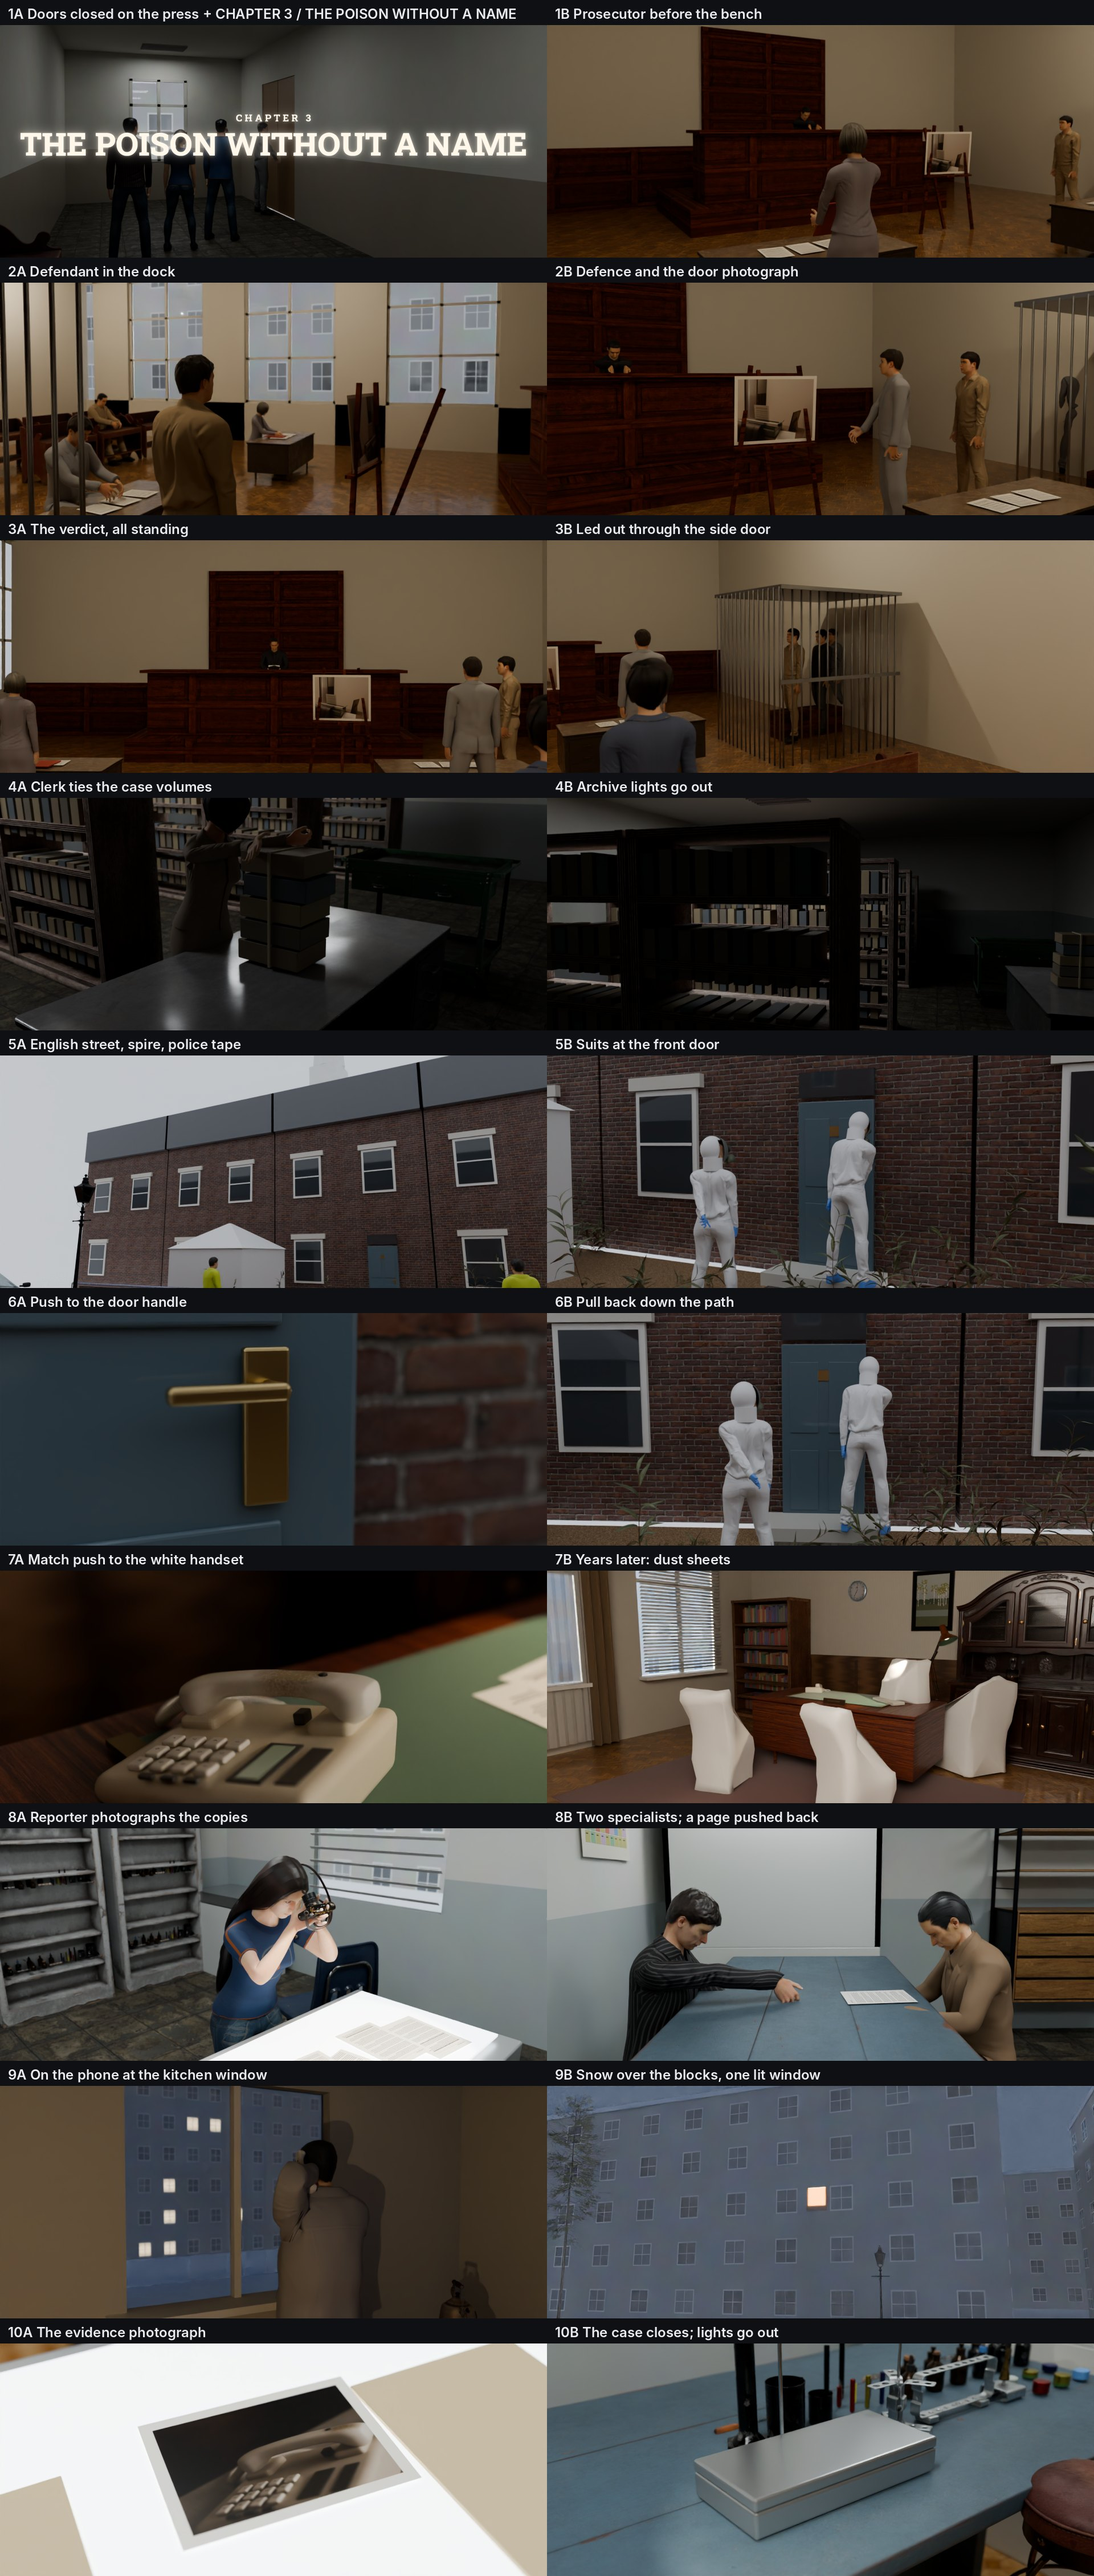
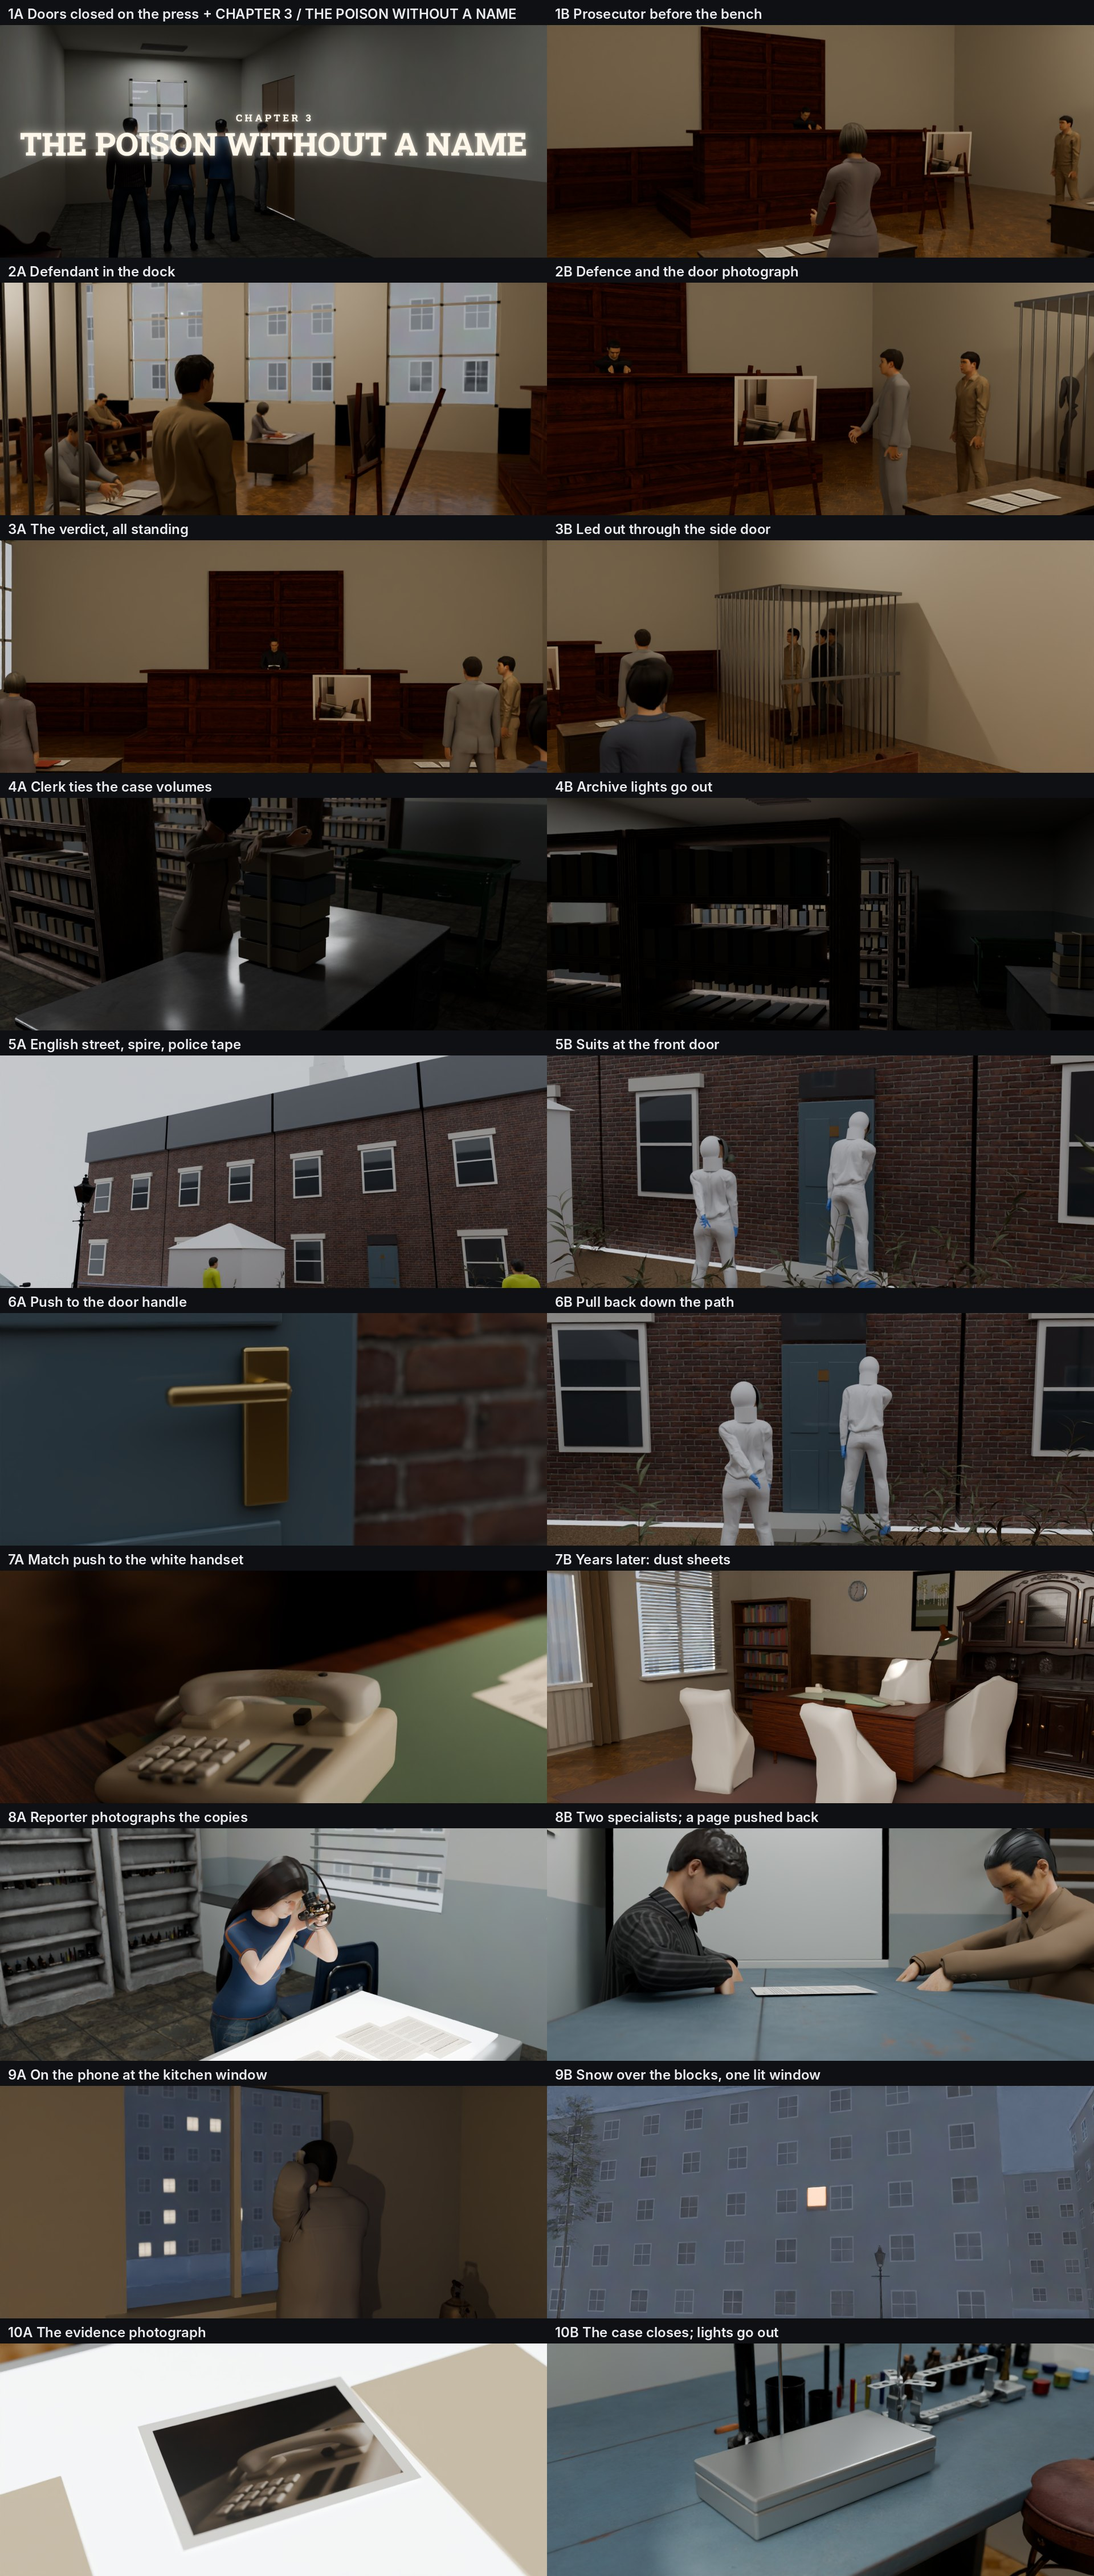
Phone banker Ch3 8B: forearms rest on the tabletop (raised seats, elbow pole out and back); v4 and Ch3 sheets updated
Claude-Session: https://claude.ai/code/session_01XfwPSnGcwN4iGzjHJz672Z

Changed region(s): [[0.5, 0.6863, 1.0, 0.8111]]

diff --git a/projects/phone-banker/scenes/sc_forlab.py b/projects/phone-banker/scenes/sc_forlab.py
@@ -427,19 +427,23 @@ def a_specialists(c, sec):
     hide(c["people"]["reporter"], True)
     c["camera_prop"].location = (LT.x + 0.4, LT.y + 0.2, LT.z + 0.02)
     s1, s2 = c["people"]["spec1"], c["people"]["spec2"]
-    seat(s1, (1.9, 1.05, 0), math.radians(180), lean=16)                          # faces +Y
-    seat(s2, (1.9, 2.42, 0.08), 0.0, lean=10)                                           # faces -Y (other side of the bench)
+    seat(s1, (1.9, 1.05, 0.12), math.radians(180), lean=12)                       # faces +Y; seats raised so the forearms rest ON the table
+    seat(s2, (1.9, 2.42, 0.14), 0.0, lean=8)                                           # faces -Y (other side of the bench)
     hide(s2, False)
+
+    def table_pole(h, sd):                                                          # elbows out and back, level: forearms lie ON the top
+        f = fwd(h); sv = Vector((0, 0, 1)).cross(f).normalized() * (1 if sd == "L" else -1)
+        return sv * 0.7 - f * 0.35 + Vector((0, 0, -0.05))
     k = ease(min(1.0, max(0.0, (sec - 1.0) / 2.0)))
     back = ease(min(1.0, max(0.0, (sec - 3.3) / 1.0)))
     pg = c["sheetB"]; pg.location = Vector((1.62, 2.1, 0.868)).lerp(Vector((1.7, 1.9, 0.868)), k)
     # fingertips on the far edge of the page, the forearm low over the table; the hand draws back once it is across
-    tip = pg.location + Vector((-0.02, 0.12, 0.05))
-    hand_to(s2, "R", tip.lerp(tip + Vector((0.05, 0.25, 0.0)), back), hand_dir=Vector((0, -0.35, -0.9)), curl=8)
-    hand_to(s2, "L", Vector((2.12, 2.2, 0.86)), hand_dir=Vector((0, -0.6, -0.7)), curl=25)
+    tip = pg.location + Vector((-0.02, 0.12, 0.095))
+    hand_to(s2, "R", tip.lerp(tip + Vector((0.05, 0.25, 0.0)), back), pole=table_pole(s2, "R"), hand_dir=Vector((0, -0.35, -0.9)), curl=8)
+    hand_to(s2, "L", Vector((2.12, 2.18, 0.955)), pole=table_pole(s2, "L"), hand_dir=Vector((0, -0.6, -0.7)), curl=25)
     nod(s2, "spine04", 8); nod(s2, "head", 14); nod(s1, "head", 16); look(s1, pg.location, 0.5)
-    hand_to(s1, "L", Vector((1.72, 1.5, 0.86)), hand_dir=Vector((0, 0.7, -0.6)), curl=25)
-    hand_to(s1, "R", Vector((2.08, 1.48, 0.86)), hand_dir=Vector((0, 0.7, -0.6)), curl=25)
+    hand_to(s1, "L", Vector((1.72, 1.52, 0.915)), pole=table_pole(s1, "L"), hand_dir=Vector((0, 0.7, -0.6)), curl=25)
+    hand_to(s1, "R", Vector((2.08, 1.5, 0.915)), pole=table_pole(s1, "R"), hand_dir=Vector((0, 0.7, -0.6)), curl=25)
 
 
 def a_photo(c, sec):
